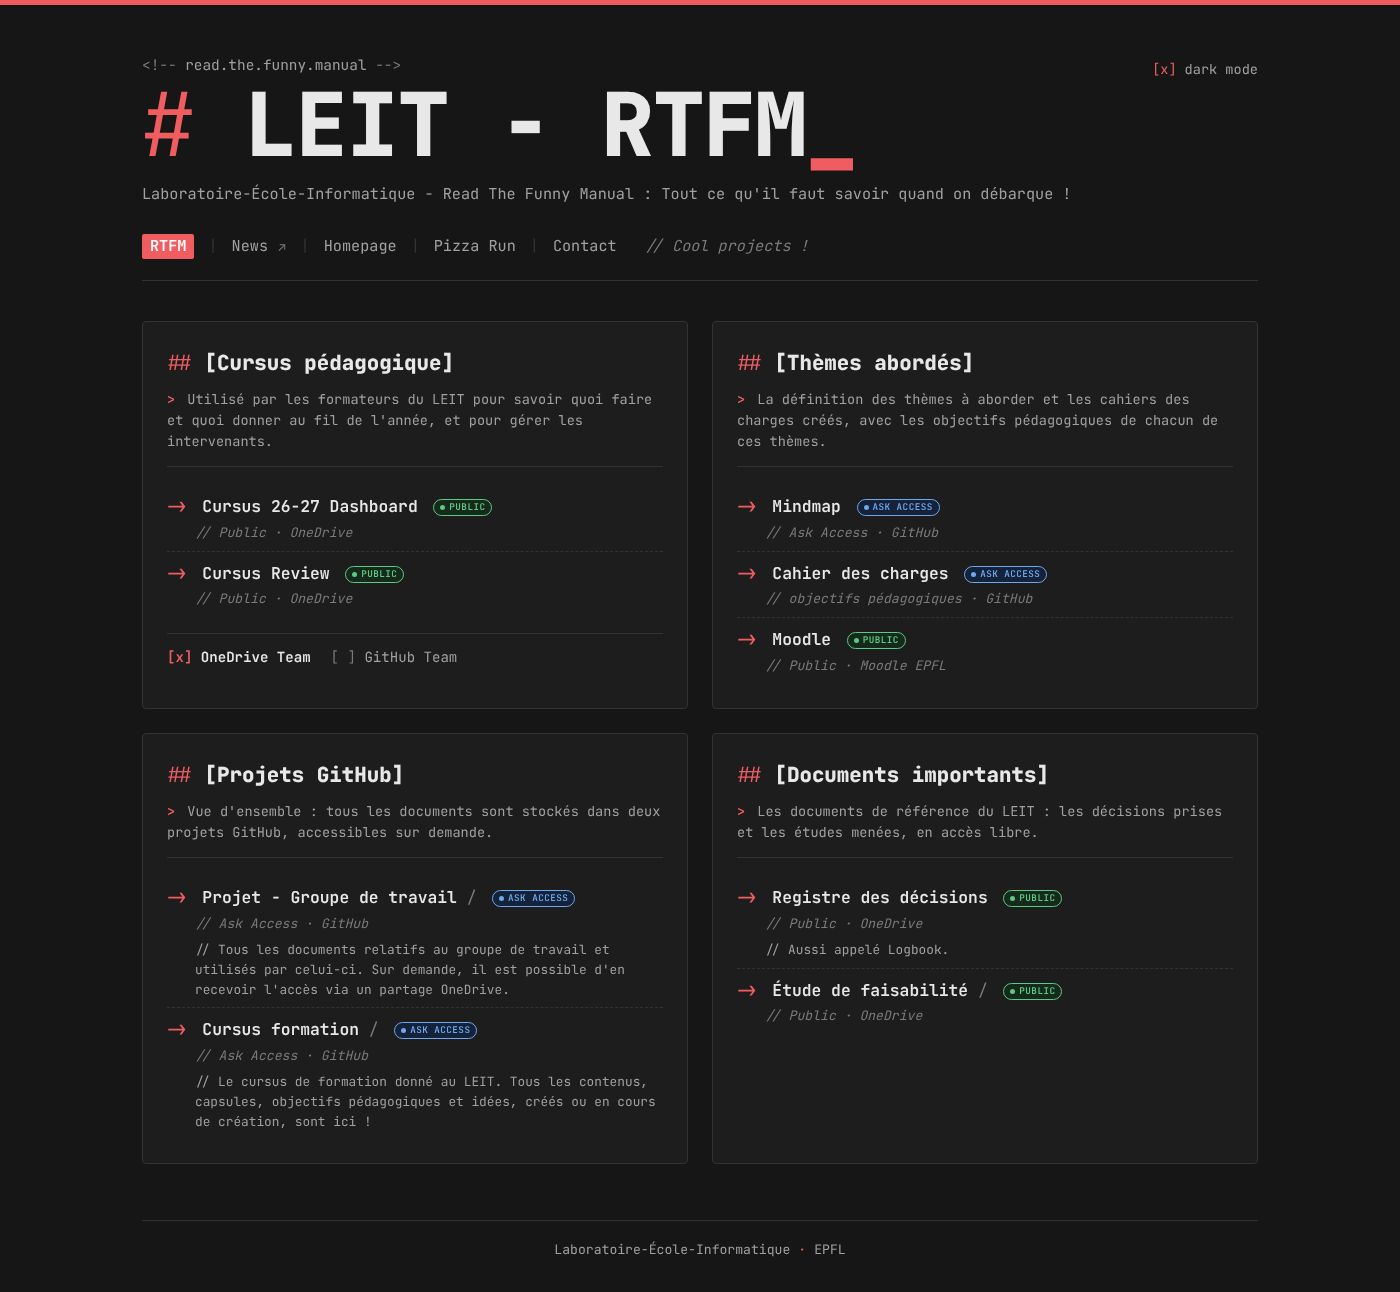
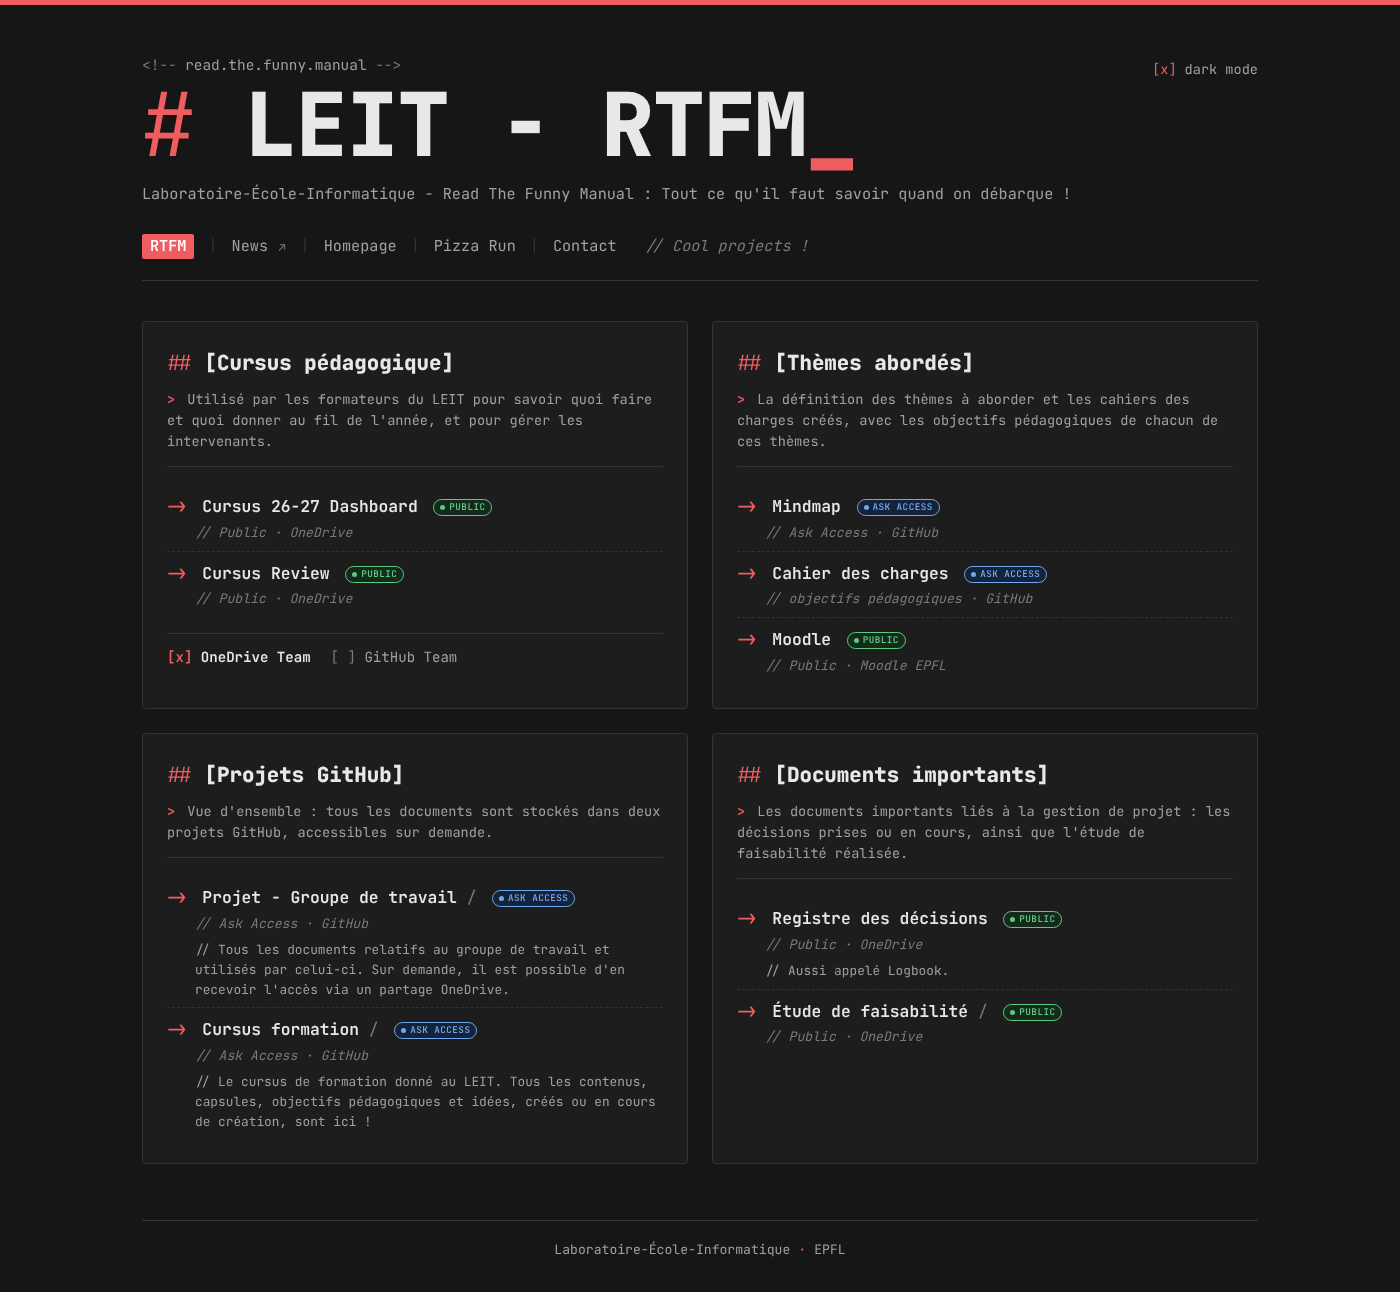
Sous-titre de Documents importants
Claude-Session: https://claude.ai/code/session_01XgbK6VpnzqvLJ4Qjiadm7W

Changed region(s): [[0.5529, 0.6811, 0.7679, 0.805], [0.6143, 0.6192, 0.86, 0.6502], [0.7371, 0.743, 0.7679, 0.774]]

diff --git a/index.html b/index.html
@@ -128,7 +128,7 @@
       <!-- ============ DOCUMENTS IMPORTANTS ============ -->
       <section class="card" id="documents-importants">
         <h2><span class="md">##</span> [Documents importants]</h2>
-        <p class="lead"><span class="md" aria-hidden="true">&gt;</span> Les documents de référence du LEIT : les décisions prises et les études menées, en accès libre.</p>
+        <p class="lead"><span class="md" aria-hidden="true">&gt;</span> Les documents importants liés à la gestion de projet : les décisions prises ou en cours, ainsi que l'étude de faisabilité réalisée.</p>
         <ul class="links">
           <li>
             <a href="https://epflch-my.sharepoint.com/:b:/g/personal/mathieu_burnat_epfl_ch/IQBypr_xuHOPR6p_lPx1JBUsAa2zLxhkt9Des0nOHT0uO8k?e=SgFsXY" target="_blank" rel="noopener"><span class="arrow">-&gt;</span> Registre des décisions</a> <span class="pill public" tabindex="0" data-tip="clic et c'est ouvert">public</span>
